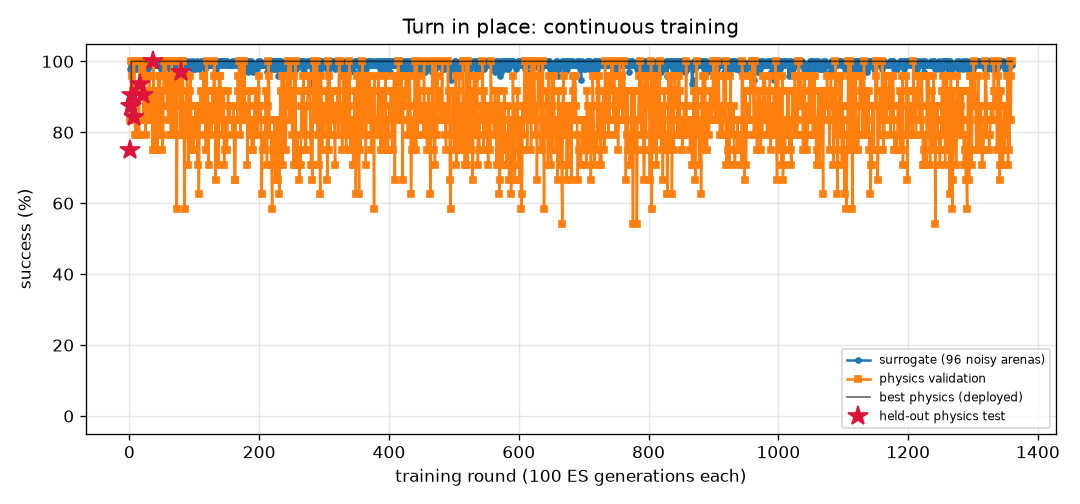
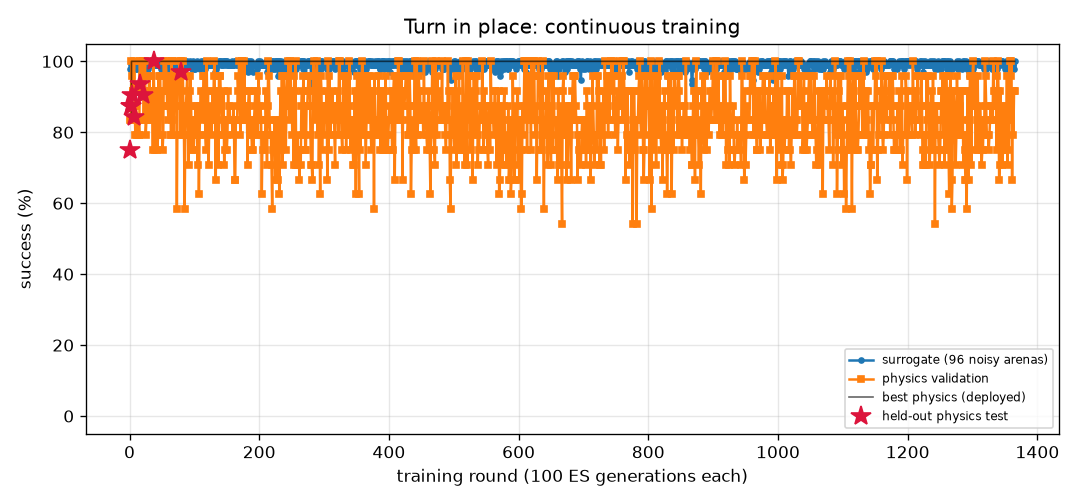
FlyLab: daily snapshot 2026-11-26
Daily entry in projects/09_flylab/training/daily/2026-11.md, plus 9 uncommitted training output file(s).

diff --git a/projects/09_flylab/training/turn/REPORT.md b/projects/09_flylab/training/turn/REPORT.md
@@ -1,14 +1,14 @@
 # Turn in place (`turn`) — training report
 
-*Auto-generated by `train_brains.py`, last updated 2026-11-25T22:20:16.*
+*Auto-generated by `train_brains.py`, last updated 2026-11-25T22:56:55.*
 
 ![curve](curve.png)
 
 | | |
 |---|---|
-| rounds | 1360 |
-| ES generations | 136000 |
-| physics runs | 32886 |
+| rounds | 1365 |
+| ES generations | 136500 |
+| physics runs | 33006 |
 | status | **optimal** |
 | best brain | round 80: physics validation **100%** on 24 arenas, surrogate 100% |
 | held-out physics test | **97%** on 32 unseen arenas (95% CI 84%-99%) (errors: [1.6, 3.3, 6.3, 3.7, 1.1, 0.4, 2.4, 2.9, 0.1, 2.6, 0.5, 2.7, 1.5, 3.1, 4.5, 0.2, 0.5, 1.1, 2.0, 4.4, 2.8, 3.2, 0.3, 2.2, 0.5, 3.0, 0.3, 5.4, 0.4, 1.0, 4.7, 10.7]) |
@@ -17,11 +17,6 @@ Physics error per arena: deg from target heading (< 20 = success).
 
 | round | level | gens | sigma | surrogate | physics val | val errors | test | note |
 |---:|---:|---:|---:|---:|---:|---|---:|---|
-| 1321 | 3 | 132100 | 0.024 | 98% | 88% | [7.3, 9.6, 0.1, 0.4, 2.1, 2.5, 4.7, 0.6, 3.4, 1.9, 2.4, 2.4, 0.4, 2.7, 2.5, 5.1, 2.7, 0.1, 5.0, 5.6, 7.7, 0.0, 4.4, 5.6] |  |  |
-| 1322 | 3 | 132200 | 0.025 | 99% | 79% | [5.0, 3.4, 0.0, 1.2, 2.1, 3.6, 5.7, 5.2, 5.1, 1.1, 4.8, 0.7, 1.5, 1.6, 3.9, 1.7, 0.0, 0.3, 2.0, 2.5, 5.9, 0.3, 4.0, 3.4] |  |  |
-| 1323 | 3 | 132300 | 0.025 | 100% | 79% | [6.6, 4.1, 2.2, 1.3, 2.3, 2.3, 4.5, 1.3, 2.3, 0.6, 4.9, 0.5, 3.0, 0.1, 3.5, 0.6, 0.9, 1.0, 0.4, 2.9, 4.5, 0.5, 4.9, 2.7] |  |  |
-| 1324 | 3 | 132400 | 0.024 | 99% | 79% | [4.6, 2.7, 7.1, 1.1, 13.7, 0.7, 5.6, 7.0, 6.0, 2.1, 5.0, 0.2, 2.6, 0.7, 4.9, 12.9, 1.5, 2.5, 12.9, 4.7, 4.4, 0.8, 4.9, 5.4] |  | restart from best |
-| 1325 | 3 | 132500 | 0.024 | 100% | 75% | [4.0, 1.0, 3.3, 0.4, 1.9, 1.8, 8.9, 8.4, 8.7, 1.2, 4.8, 1.3, 0.5, 1.6, 5.9, 3.7, 1.2, 1.6, 3.8, 2.1, 4.0, 2.1, 7.1, 6.8] |  |  |
 | 1326 | 3 | 132600 | 0.024 | 100% | 79% | [2.2, 4.4, 0.8, 3.2, 1.1, 2.0, 5.5, 6.0, 4.7, 0.2, 4.4, 0.9, 0.8, 0.4, 5.8, 3.2, 0.5, 1.3, 2.6, 3.3, 3.2, 3.0, 6.0, 5.2] |  |  |
 | 1327 | 3 | 132700 | 0.024 | 99% | 83% | [5.6, 9.5, 2.0, 1.4, 1.6, 2.5, 3.0, 1.0, 3.3, 0.4, 4.2, 1.8, 1.2, 1.9, 2.6, 2.4, 1.9, 0.5, 1.2, 2.1, 7.2, 3.1, 3.3, 0.2] |  |  |
 | 1328 | 3 | 132800 | 0.025 | 100% | 88% | [4.2, 8.9, 0.2, 0.8, 2.8, 1.2, 4.7, 3.3, 3.6, 1.4, 3.1, 1.7, 3.5, 2.6, 3.9, 2.0, 1.7, 1.0, 1.6, 1.1, 5.4, 2.0, 3.6, 3.5] |  | restart from best |
@@ -57,3 +52,8 @@ Physics error per arena: deg from target heading (< 20 = success).
 | 1358 | 3 | 135800 | 0.025 | 99% | 83% | [4.2, 2.1, 4.2, 0.1, 14.1, 0.9, 7.0, 7.5, 6.4, 2.5, 5.4, 2.9, 0.1, 1.3, 4.2, 2.9, 2.8, 2.4, 3.9, 5.9, 2.8, 2.9, 7.2, 4.2] |  |  |
 | 1359 | 3 | 135900 | 0.025 | 100% | 96% | [5.5, 1.9, 1.3, 2.6, 1.8, 2.1, 6.7, 6.6, 6.1, 1.4, 5.7, 3.8, 0.7, 1.4, 4.2, 2.5, 4.1, 2.8, 2.6, 2.7, 3.9, 2.4, 7.4, 4.0] |  |  |
 | 1360 | 3 | 136000 | 0.024 | 99% | 100% | [4.3, 1.3, 2.7, 0.4, 2.2, 4.3, 4.5, 7.3, 3.1, 12.6, 4.0, 4.7, 1.1, 0.3, 3.7, 12.8, 4.5, 5.3, 12.5, 13.3, 2.9, 2.3, 6.4, 12.2] |  | restart from best |
+| 1361 | 3 | 136100 | 0.024 | 100% | 67% | [2.6, 3.8, 15.2, 1.6, 0.0, 4.9, 6.2, 7.5, 6.6, 0.9, 5.7, 0.1, 0.5, 0.5, 4.6, 1.1, 0.3, 3.5, 1.2, 2.1, 3.0, 1.6, 8.1, 8.4] |  |  |
+| 1362 | 3 | 136200 | 0.024 | 99% | 92% | [2.7, 6.3, 2.0, 0.6, 10.2, 2.1, 4.0, 0.8, 4.6, 0.2, 2.7, 0.8, 1.6, 1.5, 4.0, 0.2, 1.0, 0.6, 0.4, 0.6, 4.6, 0.9, 6.1, 5.3] |  |  |
+| 1363 | 3 | 136300 | 0.025 | 99% | 79% | [2.1, 0.8, 2.9, 0.7, 10.8, 0.9, 5.8, 7.1, 7.6, 1.3, 3.9, 2.4, 0.6, 1.0, 5.5, 1.7, 2.7, 3.4, 1.4, 3.0, 0.2, 2.4, 8.3, 2.1] |  |  |
+| 1364 | 3 | 136400 | 0.025 | 98% | 92% | [3.0, 1.3, 3.7, 1.1, 1.4, 3.9, 7.1, 8.7, 7.4, 1.1, 4.7, 2.5, 2.6, 0.5, 6.5, 2.6, 2.2, 2.6, 2.7, 2.8, 2.2, 1.2, 5.7, 12.7] |  | restart from best |
+| 1365 | 3 | 136500 | 0.024 | 100% | 92% | [2.4, 2.8, 1.5, 1.8, 1.7, 19.8, 6.6, 0.8, 7.5, 0.9, 3.9, 1.3, 1.3, 0.2, 3.7, 13.4, 1.3, 4.3, 11.8, 3.7, 2.7, 2.0, 5.9, 5.7] |  |  |

diff --git a/projects/09_flylab/training/odor_seek/REPORT.md b/projects/09_flylab/training/odor_seek/REPORT.md
@@ -1,14 +1,14 @@
 # Find food by smell (`odor_seek`) — training report
 
-*Auto-generated by `train_brains.py`, last updated 2026-11-25T22:26:14.*
+*Auto-generated by `train_brains.py`, last updated 2026-11-25T22:44:55.*
 
 ![curve](curve.png)
 
 | | |
 |---|---|
-| rounds | 337 |
-| ES generations | 33700 |
-| physics runs | 7582 |
+| rounds | 338 |
+| ES generations | 33800 |
+| physics runs | 7606 |
 | status | **optimal** |
 | best brain | round 240: physics validation **100%** on 24 arenas, surrogate 100% |
 | held-out physics test | **100%** on 32 unseen arenas (95% CI 89%-100%) (errors: [0.02, 0.03, 0.03, 0.05, 0.04, 0.05, 0.06, 0.07, 0.09, 0.05, 0.05, 0.01, 0.12, 0.03, 0.07, 0.08, 0.02, 0.06, 0.03, 0.04, 0.0, 0.01, 0.09, 0.05, 0.04, 0.01, 0.07, 0.05, 0.08, 0.05, 0.05, 0.02]) |
@@ -17,7 +17,6 @@ Physics error per arena: mm from target at the end (< 1.5 and standing still = s
 
 | round | level | gens | sigma | surrogate | physics val | val errors | test | note |
 |---:|---:|---:|---:|---:|---:|---|---:|---|
-| 298 | 3 | 29800 | 0.024 | 100% | 100% | [0.13, 0.18, 0.19, 0.15, 0.07, 0.16, 0.19, 0.14, 0.09, 0.16, 0.15, 0.06, 0.12, 0.19, 0.21, 0.16, 0.12, 0.2, 0.08, 0.23, 0.18, 0.18, 0.18, 0.05] |  |  |
 | 299 | 3 | 29900 | 0.024 | 100% | 100% | [0.11, 0.02, 0.11, 0.22, 0.13, 0.1, 0.13, 0.2, 0.12, 0.14, 0.15, 0.02, 0.04, 0.07, 0.07, 0.11, 0.12, 0.11, 0.1, 0.13, 0.13, 0.19, 0.14, 0.13] |  |  |
 | 300 | 3 | 30000 | 0.024 | 100% | 100% | [0.2, 0.12, 0.04, 0.13, 0.25, 0.05, 0.2, 0.13, 0.08, 0.11, 0.1, 0.11, 0.18, 0.08, 0.17, 0.11, 0.11, 0.11, 0.12, 0.12, 0.18, 0.18, 0.18, 0.21] |  | restart from best |
 | 301 | 3 | 30100 | 0.024 | 100% | 100% | [0.09, 0.09, 0.14, 0.07, 0.09, 0.09, 0.04, 0.17, 0.11, 0.06, 0.04, 0.09, 0.08, 0.11, 0.07, 0.05, 0.08, 0.11, 0.11, 0.13, 0.12, 0.09, 0.12, 0.14] |  |  |
@@ -57,3 +56,4 @@ Physics error per arena: mm from target at the end (< 1.5 and standing still = s
 | 335 | 3 | 33500 | 0.024 | 100% | 100% | [0.2, 0.23, 0.2, 0.19, 0.27, 0.2, 0.26, 0.24, 0.23, 0.22, 0.29, 0.23, 0.26, 0.21, 0.19, 0.23, 0.22, 0.22, 0.24, 0.22, 0.26, 0.25, 0.24, 0.2] |  |  |
 | 336 | 3 | 33600 | 0.024 | 100% | 100% | [0.15, 0.07, 0.13, 0.21, 0.23, 0.16, 0.1, 0.15, 0.14, 0.17, 0.15, 0.08, 0.26, 0.2, 0.17, 0.37, 0.18, 0.16, 0.19, 0.15, 0.11, 0.14, 0.19, 0.19] |  | restart from best |
 | 337 | 3 | 33700 | 0.024 | 100% | 100% | [0.13, 0.07, 0.16, 0.25, 0.1, 0.19, 0.13, 0.15, 0.17, 0.12, 0.16, 0.1, 0.18, 0.14, 0.14, 0.2, 0.2, 0.21, 0.13, 0.25, 0.17, 0.14, 0.18, 0.13] |  |  |
+| 338 | 3 | 33800 | 0.024 | 100% | 100% | [0.15, 0.16, 0.16, 0.2, 0.21, 0.21, 0.19, 0.25, 0.23, 0.21, 0.23, 0.25, 0.22, 0.25, 0.22, 0.25, 0.21, 0.2, 0.29, 0.19, 0.17, 0.18, 0.21, 0.2] |  |  |

diff --git a/projects/09_flylab/training/TRAINING.md b/projects/09_flylab/training/TRAINING.md
@@ -1,15 +1,15 @@
 # FlyLab brains — continuous training log
 
-*Auto-generated by `train_brains.py`, last updated 2026-11-25T22:26:14.*
+*Auto-generated by `train_brains.py`, last updated 2026-11-25T22:56:55.*
 
 Every skill has its own brain and its own training process: surrogate ES rounds, physics validation in MuJoCo, keep-the-best selection, and a held-out physics test that is never used for selection. See each skill's report for its full round-by-round history. Mastery is progressive: passing a level (100% physics validation, >=95% surrogate) doubles the validation and test arena sets; a brain is **optimal** once it holds up at level 3 (>=95% of 24 validation arenas) AND scores >=90% on the 32 held-out test arenas. Test columns show 95% Wilson confidence intervals.
 
 | skill | rounds | ES generations | physics runs | surrogate | physics val | **physics test** | status |
 |---|---:|---:|---:|---:|---:|---:|---|
 | [Walk forward](walk_forward/REPORT.md) | 544 | 54400 | 13134 | 100% | 100% of 24 | 100% of 32 (CI 89-100%) | **optimal** |
-| [Turn in place](turn/REPORT.md) | 1360 | 136000 | 32886 | 100% | 100% of 24 | 97% of 32 (CI 84-99%) | **optimal** |
+| [Turn in place](turn/REPORT.md) | 1365 | 136500 | 33006 | 100% | 100% of 24 | 97% of 32 (CI 84-99%) | **optimal** |
 | [Go to a location](goto/REPORT.md) | 418 | 41800 | 9982 | 100% | 100% of 24 | 100% of 32 (CI 89-100%) | **optimal** |
-| [Find food by smell](odor_seek/REPORT.md) | 337 | 33700 | 7582 | 100% | 100% of 24 | 100% of 32 (CI 89-100%) | **optimal** |
+| [Find food by smell](odor_seek/REPORT.md) | 338 | 33800 | 7606 | 100% | 100% of 24 | 100% of 32 (CI 89-100%) | **optimal** |
 | [Escape a bad smell](odor_avoid/REPORT.md) | 1144 | 114400 | 24762 | 97% | 100% of 24 | 97% of 32 (CI 84-99%) | **optimal** |
 | [Walk toward light](light_seek/REPORT.md) | 620 | 62000 | 11760 | 100% | 100% of 24 | 100% of 32 (CI 89-100%) | **optimal** |
 | [Hide from light](light_avoid/REPORT.md) | 856 | 85600 | 20816 | 100% | 100% of 24 | 100% of 32 (CI 89-100%) | **optimal** |

diff --git a/projects/09_flylab/training/daily/2026-11.md b/projects/09_flylab/training/daily/2026-11.md
@@ -271,3 +271,18 @@ Written by daily_commit.py once a day.
 
 - training supervisor: **not running**
 - commits in the last 24 h: 14 (latest `8359985 22:10 FlyLab: continuous training progress`)
+
+## 2026-11-26 (Thu)
+
+| brain | state | level | physics val | test | round |
+|---|---|---|---|---|---|
+| walk_forward | optimal | 3 | 100% of 24 | 100% | 544 |
+| turn | optimal | 3 | 100% of 24 | 97% | 1365 |
+| goto | optimal | 3 | 100% of 24 | 100% | 418 |
+| odor_seek | optimal | 3 | 100% of 24 | 100% | 338 |
+| odor_avoid | optimal | 3 | 100% of 24 | 97% | 1144 |
+| light_seek | optimal | 3 | 100% of 24 | 100% | 620 |
+| light_avoid | optimal | 3 | 100% of 24 | 100% | 856 |
+
+- training supervisor: running
+- commits in the last 24 h: 11 (latest `fa12018 22:27 FlyLab: continuous training progress`)
